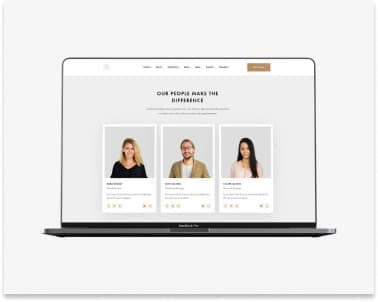
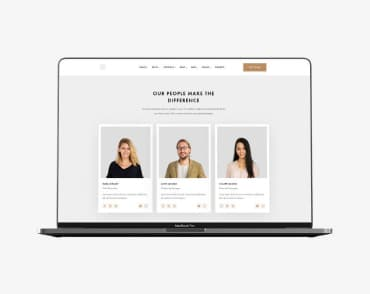
fix mistakes

diff --git a/portfolio.html b/portfolio.html
@@ -173,23 +173,23 @@
         </main>
     <footer class="page-footer-bg">
         <div class="container">
-        <a class="logo logo-footer" href="./index.html">
-            Web<span class="logo-foot">Studio</span></a>
-        <address class="footer-address">
-            <ul class="link-list">
-                <li class="link-list">
-                    <a class="address-link" href="https://goo.gl/maps/CPtrU1FHBa2aNyZL9" target="_blank"
-                        rel="noopener noreferrer nofollow">м. Київ, пр-т Лесі Українки, 26</a>
-                </li>
-                <li class="link-item" >
-                    <a href="mailto:info@devstudio.com" class="footer-link">
-                        info@devstudio.com</a><br />
-                </li>
-                <li class="link-item" > 
-                    <a href="tel:+380961111111" class="footer-link">+38 096 111 11 11</a>
-                </li>
-            </ul>
-        </address>
+            <a class="logo logo-footer" href="./index.html">Web<span class="logo-foot">Studio</span> </a>
+            <address class="footer-address">
+                <ul class="link-list">
+                    <li class="link-item">
+                        <a class="address-link" href="https://goo.gl/maps/CPtrU1FHBa2aNyZL9" target="_blank"
+                            rel="noreferrer noopener nofollow">
+                            м. Київ, пр-т Лесі Українки, 26</a>
+                    </li>
+                    <li class="link-item">
+                        <a href="mailto:info@devstudio.com" class="footer-link">
+                            info@devstudio.com</a><br />
+                    </li>
+                    <li class="link-item">
+                        <a href="tel:+380961111111" class="footer-link">+38 096 111 11 11</a>
+                    </li>
+                </ul>
+            </address>
         </div>
     </footer>
 </body>

diff --git a/index.html b/index.html
@@ -57,19 +57,19 @@
             <div class="container">
             <h2 class="visually-hidden">Наші особливості</h2>
             <ul class="benefits-list">
-                <li class="banefits-item">
+                <li class="benefits-item">
                     <h3 class="benefits-title">Увага до деталей</h3>
                     <p class="benefits-text">Ідейні міркування, і навіть початок повсякденної роботи з формування позиції.</p>
                 </li>
-                <li class="banefits-item">
+                <li class="benefits-item">
                     <h3 class="benefits-title">Пунктуальність</h3>
                     <p class="benefits-text">Завдання організації, особливо рамки і місце навчання кадрів тягне у себе.</p>
                 </li>
-                <li class="banefits-item">
+                <li class="benefits-item">
                     <h3 class="benefits-title">Планування</h3>
                     <p class="benefits-text">Так само консультація з широким активом значною мірою зумовлює.</p>
                 </li>
-                <li class="banefits-item">
+                <li class="benefits-item">
                     <h3 class="benefits-title">Сучасні технології</h3>
                     <p class="benefits-text">Значимість цих проблем настільки очевидна, що реалізація планових завдань.</p>
                 </li>

diff --git a/css/styles.css b/css/styles.css
@@ -215,7 +215,6 @@ body {
 
 .benefits-list {
     display: flex;
-    align-items: center;
 
 }
 
@@ -227,6 +226,7 @@ body {
 
 .benefits-item {
     flex-basis: calc(100% - 90px/4);
+    /* width: 270px; */
 }
 
 .benefits-title {
@@ -283,22 +283,29 @@ background-color: var(--white);
 
 }
 
-.team-title {
-        font-weight: 500;
-        font-size: 16px;
-        line-height: 1.18;
-        color: var(--title-color);
-        margin-bottom: 10px;
-}
-
 .position-box {
     padding-top: 30px;
     padding-bottom: 30px;
-    padding: 30px 70px;
+    padding: 30px;
 
     border-radius: 0px 0px 4px 4px;
     box-shadow: 0px 1px 3px rgba(0, 0, 0, 0.12), 0px 1px 1px rgba(0, 0, 0, 0.14),
         0px 2px 1px rgba(0, 0, 0, 0.2);
+}
+
+.team-title {
+    font-weight: 500;
+    font-size: 16px;
+    line-height: 1.18;
+    color: var(--title-color);
+    margin-bottom: 10px;
+}
+
+.team-position {
+    color: var(--text-color);
+    font-size: 16px;
+    line-height: 19px;
+    text-align: center;
 }
 
 .team-item
